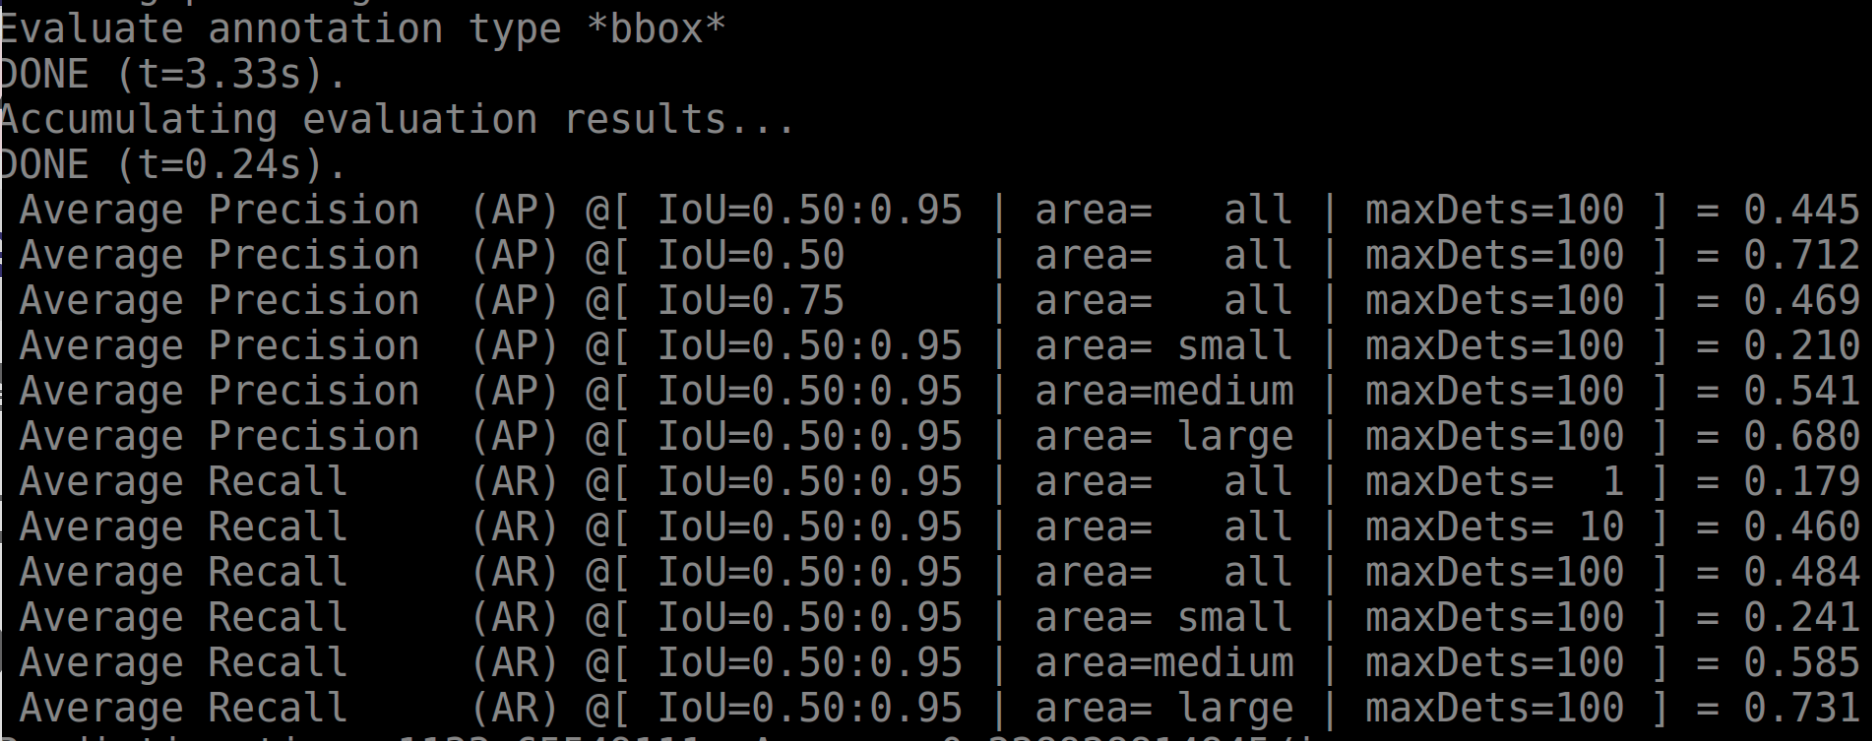
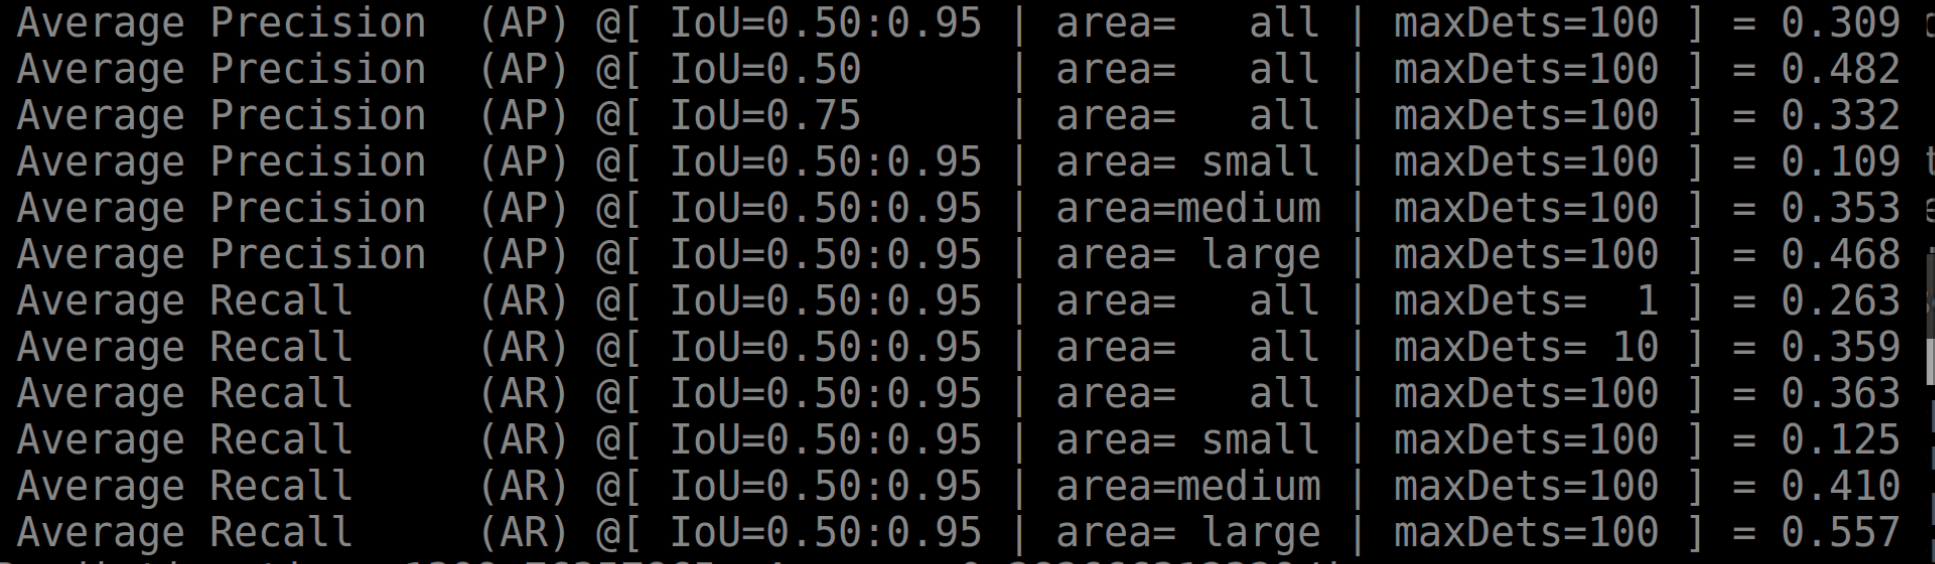
refine

diff --git a/README.md b/README.md
@@ -1,6 +1,6 @@
-# PyTorch version of MASK-RCNN
+# PyTorch version of [tf+keras version MASK-RCNN](https://github.com/matterport/Mask_RCNN)
 
-### Download the pretrained model at [Dropbox](uploading)
+### Download the converted model at [Dropbox](uploading)
  
 ## INSTALLATION
 ### CUDA CODE:
@@ -22,16 +22,15 @@ To train or test on MS COCO, you'll also need:
   and the 35K [validation-minus-minival](https://dl.dropboxusercontent.com/s/s3tw5zcg7395368/instances_valminusminival2014.json.zip?dl=0)
   subsets. More details in the original [Faster R-CNN implementation](https://github.com/rbgirshick/py-faster-rcnn/blob/master/data/README.md). 
   
-## Structure of the code
-* `./network`: This package contains all the definitions for the mask rcnn.
+## Structure 
 
-* `./preprocess`: This package contains all the scripts for the data pipeline: Transform raw image and labels.
+* `./convert_weights`: How to convert the weights from [tf+keras version of MASK-RCNN](https://github.com/matterport/Mask_RCNN).
 
-* `./postprocess`: This package contains all the scripts for the model's output...
+* `./network`: The definitions for the mask rcnn.
 
-* `./tnn`: This is the training framework submodule. This code shouldn't be modified directly from this project in order to avoid dependency issues
+* `./preprocess`: All the scripts for the data pipeline: Transform raw image and labels.
 
-* `./models`: This directory contain the dilated weights trained on MS-COCO
+* `./postprocess`: For the model's output...
 
 * `./README`: This package contains image will showed on the Gitlab.
 
@@ -41,22 +40,18 @@ Change the path of the model at `demo.py`, and then run:
 python demo.py
 ```
 
-## Training
-Change the path of the trained model and model save path at `train.py`, and then run:
-```
-python train.py
-```
+## Training(Not woring for now)...
 
 ## Evaluation
 Change the path of the model at `eval.py`, and then run:
 ```
 python eval.py
 ```
-### mAP of Bbox on person:
+### mAP of Bbox:
 
 <img src="README/bbox.png" width="500" align="center">
 
-### mAP of Segmentation on person:
+### mAP of Segmentation:
 
 <img src="README/segm.png" width="500" align="center">
 
